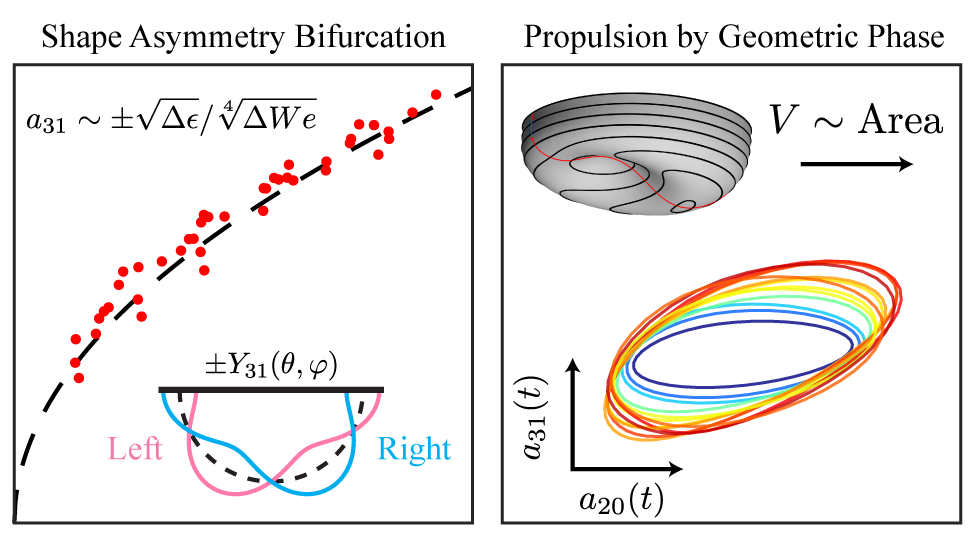
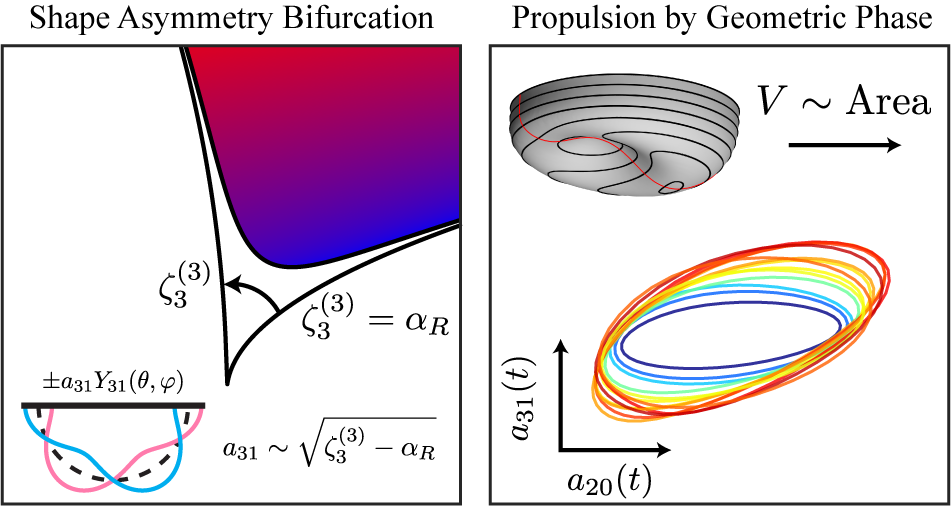
update neurips and fig

diff --git a/_pages/about.md b/_pages/about.md
@@ -443,7 +443,7 @@ dQP is a modular framework for differentiating the solution to a quadratic progr
 <p class="authors">Magoon<sup>*</sup>, Yang<sup>*</sup>, Aigerman, Kovalsky</p>
 <p class="venue">NeurIPS (2025)</p>
 <div class="links pill-links">
-<a class="pill" href="https://arxiv.org/pdf/2410.06324" target="_blank">Paper</a>
+<a class="pill" href="https://papers.nips.cc/paper_files/paper/2025/file/9bd9aa8c2326b67321eb1f5f281ba618-Paper-Conference.pdf" target="_blank">Paper</a>
 <a class="pill" href="https://github.com/cwmagoon/dQP" target="_blank">Code</a>
 <a class="pill" href="https://neurips.cc/media/PosterPDFs/NeurIPS%202025/119180.png?t=1762316861" target="_blank">Poster</a>
 <a class="pill" href="https://neurips.cc/virtual/2025/loc/san-diego/poster/119180" target="_blank">Video</a>